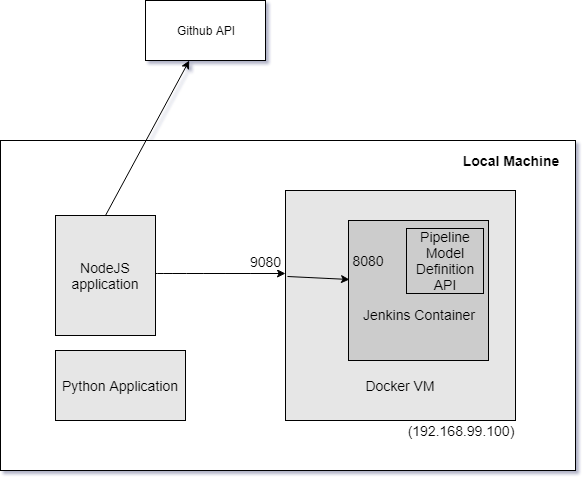
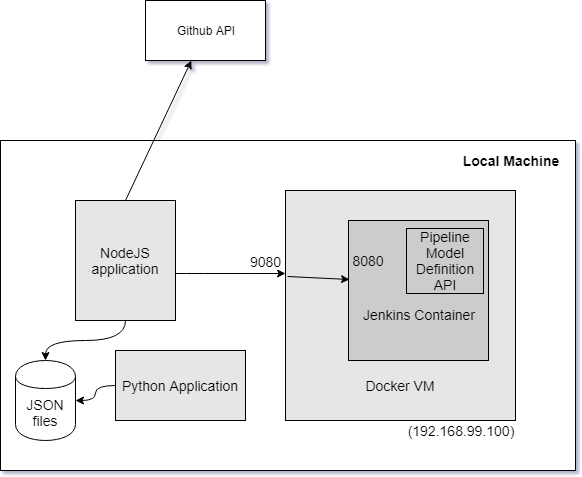
readme changes

diff --git a/app/q2/q2.js b/app/q2/q2.js
@@ -19,7 +19,7 @@ var parsedJenkinsFile = [];
 var parseBasedOnOutput = {
   // Research question
   research_question_2:
-      'How is the presence of triggers in a pipeline correlates with the number of stages in the pipeline? What are the common types of triggers used in pipelines',
+      'How is the presence of triggers in a pipeline correlates with the number of stages in the pipeline? What are the common types of triggers used in pipelines?',
   // to be added to final json output file by th python script
   corelation_coefficient: 'to_be_calculated_by_python_script',
   // counts of different triggers present in the triggers section.

diff --git a/README_2.md b/README_2.md
@@ -68,8 +68,32 @@ then execute `pip3 install pillow`.
 ----------
 ![](https://bitbucket.org/chinmay2312/amrish_jhaveri_chinmay-gangal_cp/raw/master/images/Architecture_db_add.png)
 
-- A Jenkins Server will be running on the local Docker VM exposed via 9080 port and 192.168.99.100 IP address.
+- A Jenkins Server will be running on the local Docker VM exposed via `9080` port and `192.168.99.100` IP address.
 - The NodeJS application will collect the data from Github via its API and then pass the jenkinsfile to pipeline-model-definition API of Jenkins.
 - Once response is received we retrieve the required data from the JSON representation of the Jenkinsfile and use the data to answer the research questions.
 - Final Output is stored in JSON files in a pre-defined structure(shown later).
-- IntermediateOutput JSON files are used by python scripts to create the graphs or calculate co-relation co-efficients. 
+- IntermediateOutput JSON files are used by python scripts to create the graphs or calculate co-relation co-efficients.
+
+
+## Output Structure
+----------
+The output present in finalOutput.json will have the following structure :
+
+Attribute Name|Data Type|Purpose
+--|--|--
+research_question_1a|JSON String|What are the most frequent post-condition blocks in the post section within jenkins pipelines? Create distribution graphs for post-condition blocks.
+counts_of_post_elements|JSON Object|Only for Q1. Counts of various conditional blocks found in POST section of jenkins file
+research_question_1b|JSON String|What are the most frequent activities in the post section conditional blocks within jenkins pipelines? Create distribution graphs for post-condition blocks.
+counts_of_activities_in_post_blocks|JSON Object|Only for Q1. Counts of various activities executed inside the conditional blocks of POST section.
+research_question_2|JSON String|How is the presence of triggers in a pipeline correlates with the number of stages in the pipeline? What are the common types of triggers used in pipelines?
+corelation_coefficient|JSON String or JSON Number|Only for Q2. The actual value is calculated from the python script.
+counts_of_types_of_triggers|JSON Object|Only for Q2. Counts of different triggers present in the triggers section.
+counts_of_triggers_and_stages|JSON Array|Only for Q2. A list of no. of triggers and stages for each jenkisnfile.
+research_question_3a|JSON String|What are the most and the least frequent commands in pipeline stages?
+counts_commands_in_stages_operations|JSON Object| Only for Q3. stores objects for each stage with a list of for commands executed for that stage.
+research_question_3b|JSON String| What are the most and the least frequent operations in pipeline stages?
+counts_of_operation_stages|JSON Object| Only for Q3.Stores counts for each operation stages.
+research_question_4|JSON String| For stages in parallel, fail-fast feature is used for what type of operations(stage names)? When it is used/unused, what are the operations running in parallel?
+parallel_stages_analysis|JSON Array|Only for Q4. A list containing objects for each jenkinsfile with data of outer_stage_name,parallel stages, fail-fast used or not.
+project_details|JSON Array|List of Jenkinsfile's Project and the parsed JSON output of the jenkinsfile.
+
